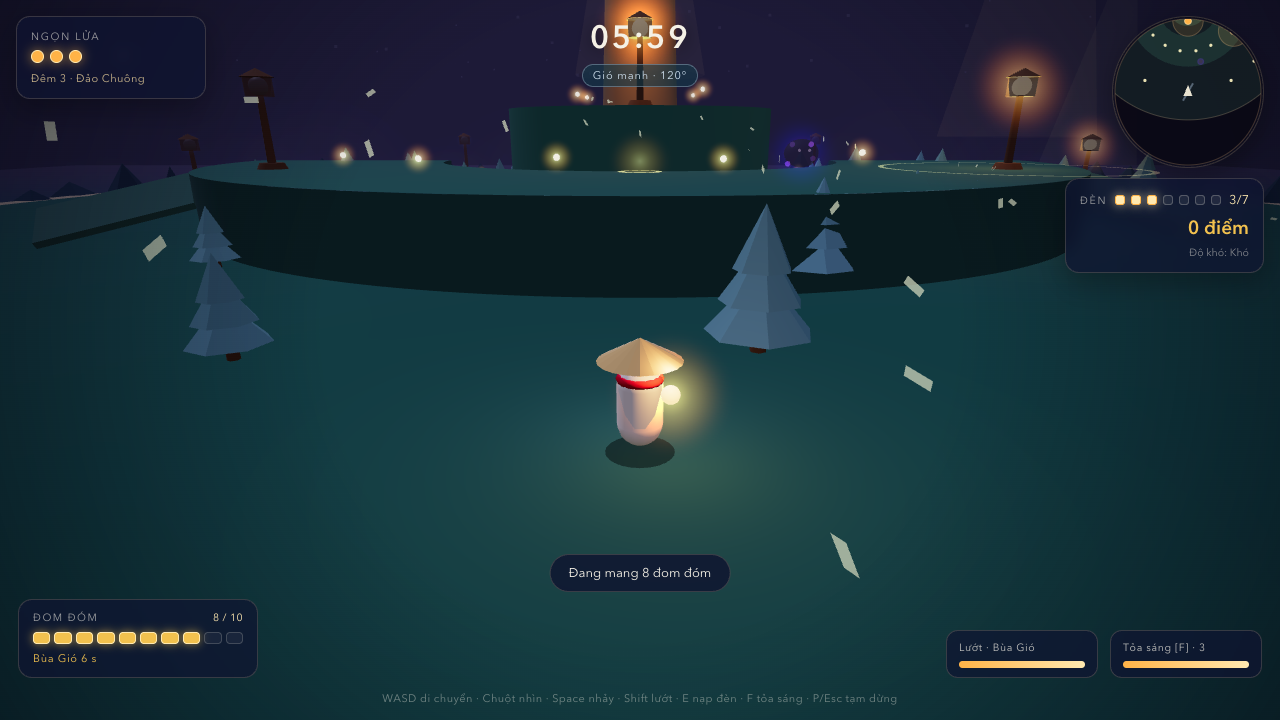
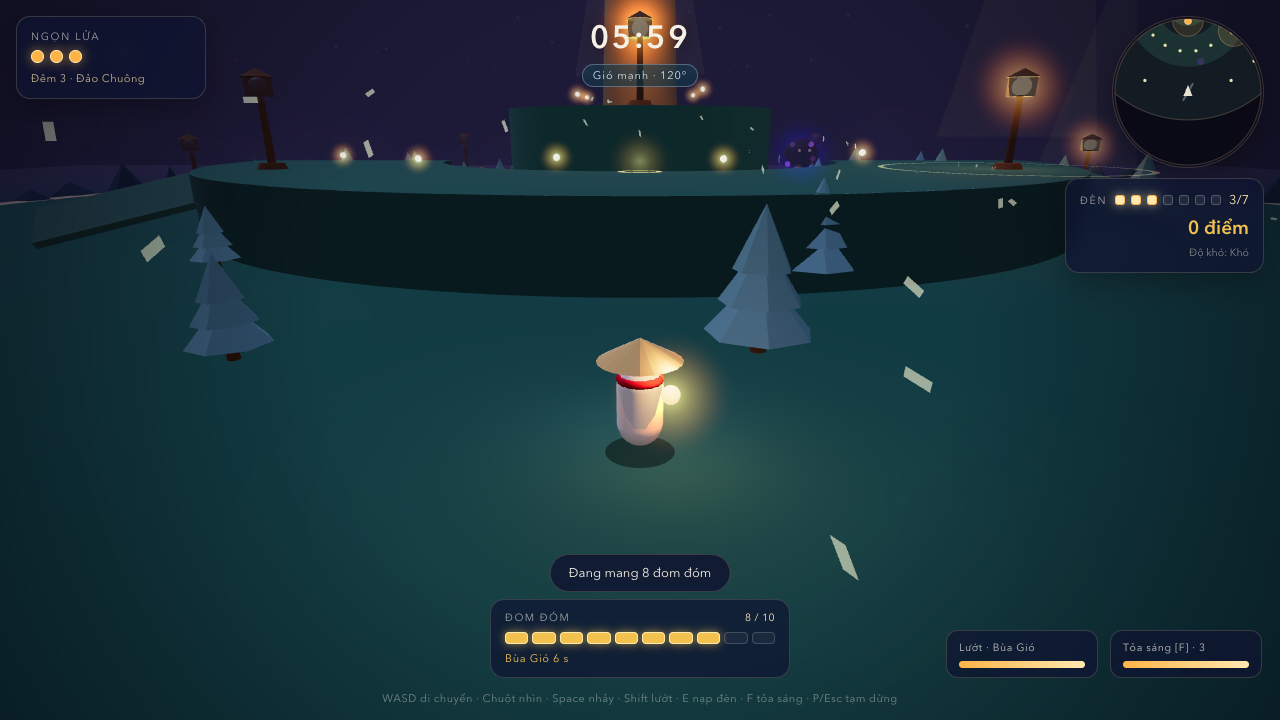
fix(game): stunned shades cannot hit, warning leaves and centered carry bar

Changed region(s): [[0.375, 0.825, 0.625, 0.9472], [0.0, 0.8556, 0.1875, 0.9167]]

diff --git a/src/render/hud.ts b/src/render/hud.ts
@@ -149,8 +149,9 @@ export class Hud {
 
     this.charmTag.hidden = game.charmTicks <= 0;
     if (game.charmTicks > 0) this.charmTag.textContent = `Bùa Gió ${Math.ceil(game.charmTicks * DT)} s`;
-    this.windTag.hidden = !game.wind.active;
+    this.windTag.hidden = !game.wind.active && !game.windWarning;
     if (game.wind.active) this.windTag.textContent = `Gió mạnh · ${Math.round(game.wind.dirDeg)}°`;
+    else if (game.windWarning) this.windTag.textContent = 'Gió sắp tới';
 
     this.setHint(this.buildHint(game));
   }

diff --git a/src/core/game.ts b/src/core/game.ts
@@ -1008,7 +1008,7 @@ export class Game {
     if (this.invulnTicks > 0) return;
 
     for (const s of this.shades) {
-      if (s.state === 'spawning') continue;
+      if (s.state === 'spawning' || s.state === 'stunned' || s.state === 'recoil') continue;
       if (s.safeTicks > 0) continue;
       if (Math.hypot(s.x - this.px, s.z - this.pz) > TUNING.shade_hit_radius) continue;
       if (Math.abs((s.y - 1) - this.py) > 1.5) continue;

diff --git a/src/render/main.ts b/src/render/main.ts
@@ -464,7 +464,10 @@ window.addEventListener('keydown', (event) => {
   }
 
   if (phase !== 'playing') return;
-  if (event.code === 'Space') jumpQueued = true;
+  if (event.code === 'Space') {
+    jumpQueued = true;
+    audio.jump();
+  }
   if (event.code === 'KeyE') interactQueued = true;
   if (event.code === 'KeyF') pulseQueued = true;
   if (event.code === 'ShiftLeft' || event.code === 'ShiftRight') dashQueued = true;

diff --git a/src/render/styles.css b/src/render/styles.css
@@ -295,12 +295,15 @@ body {
   bottom: 42px;
   display: flex;
   align-items: flex-end;
-  justify-content: space-between;
+  justify-content: flex-end;
   gap: 18px;
 }
 
 .carry-wrap {
-  min-width: 240px;
+  position: absolute;
+  left: 50%;
+  transform: translateX(-50%);
+  min-width: 300px;
   padding: 10px 14px;
   border-radius: 14px;
   background: var(--panel);
